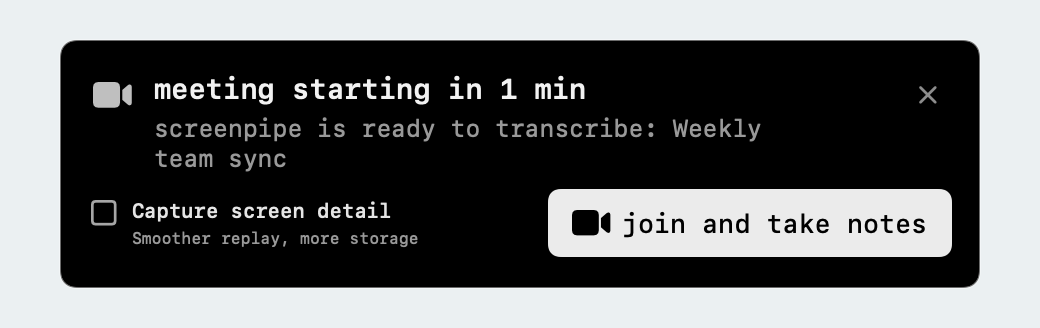
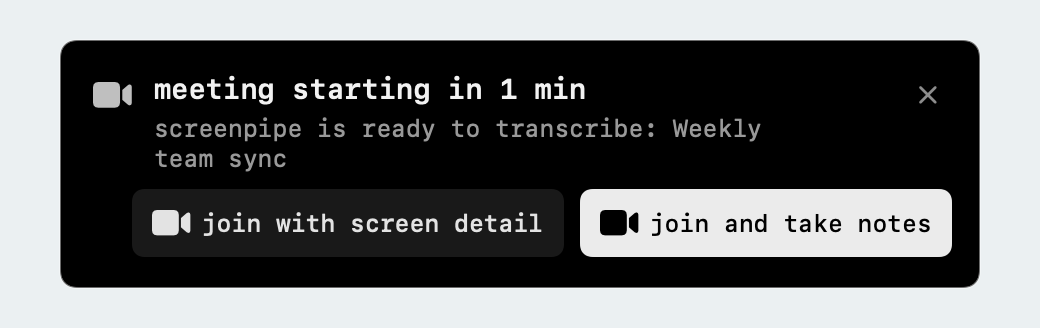
Offer one-click meeting joins with or without screen detail

Changed region(s): [[0.0615, 0.5793, 0.8923, 0.7927]]

diff --git a/apps/screenpipe-app-tauri/src-tauri/swift/shortcut_reminder.swift b/apps/screenpipe-app-tauri/src-tauri/swift/shortcut_reminder.swift
@@ -232,8 +232,24 @@ struct OverlayNotification: Equatable {
         actions.first { $0.screenDetailBody != nil }
     }
 
-    /// One dispatch joins the call and, only when selected, starts screen detail
-    /// first. Toggling the option itself never sends an action or dismisses.
+    /// Both visible meeting buttons join in one click. The screen-detail variant
+    /// replaces the standalone capture action while preserving its eligibility.
+    var displayActions: [OverlayNotificationAction] {
+        guard isMeetingJoin, let detailAction = screenDetailAction,
+              let join = actions.first(where: { $0.meetingProvider != nil })
+        else { return actions }
+        let combined = joining(join, captureScreenDetail: true)
+        return actions.map { action in
+            guard action.id == detailAction.id else { return action }
+            return OverlayNotificationAction(
+                id: action.id, label: uiText("join with screen detail"), primary: false,
+                payload: combined.payload, meetingProvider: combined.meetingProvider,
+                screenDetailBody: nil
+            )
+        }
+    }
+
+    /// Compose capture and joining into one dispatch, with capture starting first.
     func joining(_ action: OverlayNotificationAction, captureScreenDetail: Bool) -> OverlayNotificationAction {
         guard captureScreenDetail, action.meetingProvider != nil,
               let body = screenDetailAction?.screenDetailBody,
@@ -1648,26 +1664,6 @@ private struct DockStatusCell<Content: View>: View {
     }
 }
 
-/// SwiftUI-drawn checkbox keeps contrast and focus visible on the dark card.
-@available(macOS 13.0, *)
-private struct ScreenDetailToggleStyle: ToggleStyle {
-    let scale: CGFloat
-
-    func makeBody(configuration: Configuration) -> some View {
-        Button(action: { configuration.isOn.toggle() }) {
-            HStack(alignment: .top, spacing: 6 * scale) {
-                Image(systemName: configuration.isOn ? "checkmark.square.fill" : "square")
-                    .font(.system(size: 14 * scale, weight: .medium))
-                    .foregroundColor(.white.opacity(configuration.isOn ? 0.95 : 0.65))
-                configuration.label
-            }
-            .contentShape(Rectangle())
-        }
-        .buttonStyle(.plain)
-        .accessibilityValue(uiText(configuration.isOn ? "On" : "Off"))
-    }
-}
-
 /// Notification rendered as an extension of the pill. Deliberately shaped like
 /// the pill's other surfaces (transcript preview, disclosure) rather than the
 /// standalone notification panel, so it reads as the overlay speaking up.
@@ -1678,14 +1674,13 @@ private struct OverlayNotificationView: View {
     let scale: CGFloat
     let onAction: (OverlayNotificationAction) -> Void
     let onDismiss: () -> Void
-    @State var captureScreenDetail = false
 
     private func s(_ value: CGFloat) -> CGFloat { value * scale }
 
     /// Ordered so the primary action lands closest to the right edge, where the
     /// pointer already is after reading the title.
     private var orderedActions: [OverlayNotificationAction] {
-        notification.actions.sorted { !$0.primary && $1.primary }
+        notification.displayActions.sorted { !$0.primary && $1.primary }
     }
 
     var body: some View {
@@ -1726,22 +1721,6 @@ private struct OverlayNotificationView: View {
                 dismissButton
             }
             HStack(spacing: s(8)) {
-                if notification.screenDetailAction != nil {
-                    Toggle(isOn: $captureScreenDetail) {
-                        VStack(alignment: .leading, spacing: s(2)) {
-                            Text(uiText("Capture screen detail"))
-                                .font(Brand.swiftUIMonoFont(size: 10 * scale, weight: .medium))
-                                .foregroundColor(.white.opacity(0.9))
-                            Text(uiText("Smoother replay, more storage"))
-                                .font(Brand.swiftUIMonoFont(size: 8 * scale))
-                                .foregroundColor(.white.opacity(0.60))
-                        }
-                    }
-                    .toggleStyle(ScreenDetailToggleStyle(scale: scale))
-                    .help(uiText("Capture your screen more frequently during this meeting. Starts when you click Join."))
-                    .accessibilityLabel(uiText("Capture screen detail when joining"))
-                    .fixedSize()
-                }
                 Spacer(minLength: 0)
                 actionButtons
             }
@@ -1776,10 +1755,8 @@ private struct OverlayNotificationView: View {
     }
 
     private var actionButtons: some View {
-        ForEach(orderedActions.filter { !notification.isMeetingJoin || $0.screenDetailBody == nil }) { action in
-            Button(action: {
-                onAction(notification.joining(action, captureScreenDetail: captureScreenDetail))
-            }) {
+        ForEach(orderedActions) { action in
+            Button(action: { onAction(action) }) {
                 HStack(spacing: s(7)) {
                     if let provider = action.meetingProvider {
                         if let image = provider.image {
@@ -1788,6 +1765,8 @@ private struct OverlayNotificationView: View {
                                 .interpolation(.high)
                                 .scaledToFit()
                                 .frame(width: s(18), height: s(18))
+                                .background(action.primary ? Color.clear : Color.white)
+                                .clipShape(RoundedRectangle(cornerRadius: s(3)))
                                 .accessibilityHidden(true)
                         } else {
                             Image(systemName: "video.fill")
@@ -1797,11 +1776,11 @@ private struct OverlayNotificationView: View {
                         }
                     }
                     Text(action.label)
-                        .font(Brand.swiftUIMonoFont(size: (notification.isMeetingJoin ? 13 : 9) * scale, weight: .medium))
+                        .font(Brand.swiftUIMonoFont(size: (notification.isMeetingJoin ? 12 : 9) * scale, weight: .medium))
                         .lineLimit(1)
                 }
                     .foregroundColor(action.primary ? .black : .white.opacity(0.88))
-                    .padding(.horizontal, s(notification.isMeetingJoin ? 12 : 8))
+                    .padding(.horizontal, s(notification.isMeetingJoin ? 10 : 8))
                     .frame(height: s(notification.isMeetingJoin ? 34 : 22))
                     .background(
                         action.primary
@@ -1812,6 +1791,9 @@ private struct OverlayNotificationView: View {
                     .contentShape(RoundedRectangle(cornerRadius: s(6)))
             }
             .buttonStyle(.plain)
+            .help(notification.isMeetingJoin && action.id == notification.screenDetailAction?.id
+                ? uiText("Join and take notes with more frequent screen capture for smoother replay. Uses more storage.")
+                : action.label)
             .fixedSize()
         }
     }
@@ -3445,7 +3427,6 @@ class ShortcutReminderController: NSObject, NSWindowDelegate {
             },
             onDismiss: { [weak self] in self?.dismissOverlayNotification() }
         )
-        .id(notification.id) // A new meeting must not inherit a previous opt-in.
         if let hosting = notificationHostingView {
             hosting.rootView = AnyView(view)
         } else {

diff --git a/apps/screenpipe-app-tauri/src-tauri/swift/shortcut_reminder_tests.swift b/apps/screenpipe-app-tauri/src-tauri/swift/shortcut_reminder_tests.swift
@@ -614,6 +614,14 @@ private func testJoinScreenDetailChoice() {
     """
     let notification = OverlayNotification.parse(json)!
     let join = notification.actions[0]
+    let displayed = notification.displayActions
+    expect(displayed.count == 2, "meeting must expose two one-click join choices")
+    expect(displayed[0] == join, "ordinary Join must remain unchanged")
+    expect(displayed[1].label == "join with screen detail", "capture choice must explicitly say it joins")
+    expect(displayed[1].meetingProvider == .googleMeet, "both join choices must show the service icon")
+    let detailPayload = try! JSONSerialization.jsonObject(with: Data(displayed[1].payload.utf8)) as! [String: Any]
+    expect(detailPayload["type"] as? String == "meeting_join", "screen-detail button must join directly")
+    expect((detailPayload["screen_detail"] as? [String: Any])?["boundTo"] as? String == "prewarm_pending", "screen-detail button must include capture in its single dispatch")
     expect(notification.screenDetailAction != nil, "HD eligibility must expose the option")
     expect(notification.joining(join, captureScreenDetail: false) == join, "ordinary Join must not enable screen detail")
     let combined = notification.joining(join, captureScreenDetail: true)
@@ -624,6 +632,7 @@ private func testJoinScreenDetailChoice() {
     expect(combined.meetingProvider == .googleMeet, "combined Join lost its icon")
     let withoutHD = OverlayNotification.parse(json.replacingOccurrences(of: "/capture/hd/start", with: "/unrelated"))!
     expect(withoutHD.screenDetailAction == nil, "unrelated API action must not become a capture setting")
+    expect(withoutHD.displayActions == withoutHD.actions, "ineligible notifications must keep their actions")
     expect(withoutHD.joining(withoutHD.actions[0], captureScreenDetail: true) == withoutHD.actions[0], "capture cannot be added without the offered HD action")
     expect(notification.joining(notification.actions[1], captureScreenDetail: true) == notification.actions[1], "non-join actions must stay unchanged")
 }
